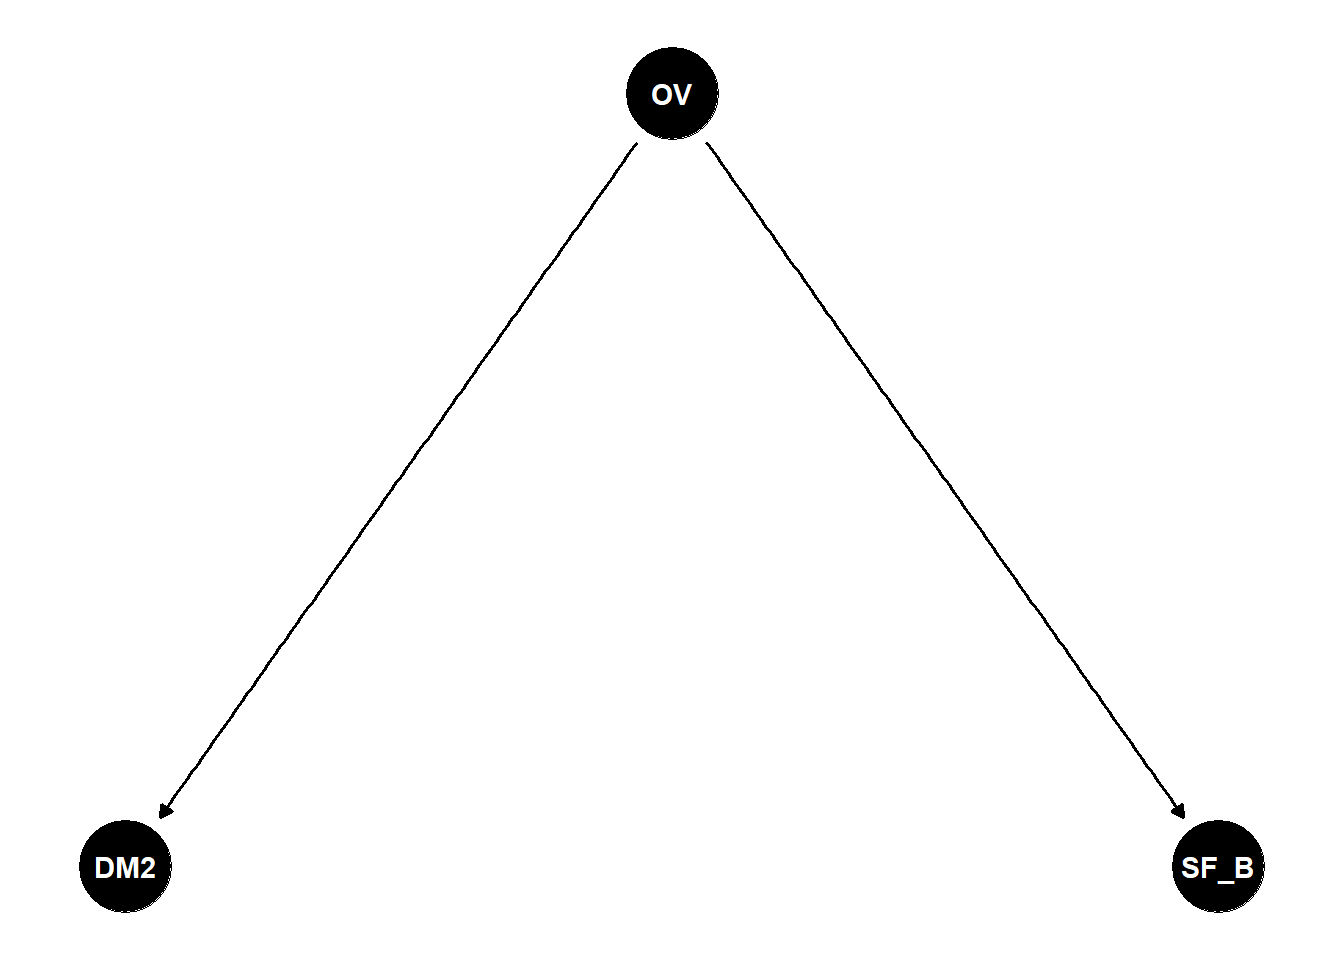
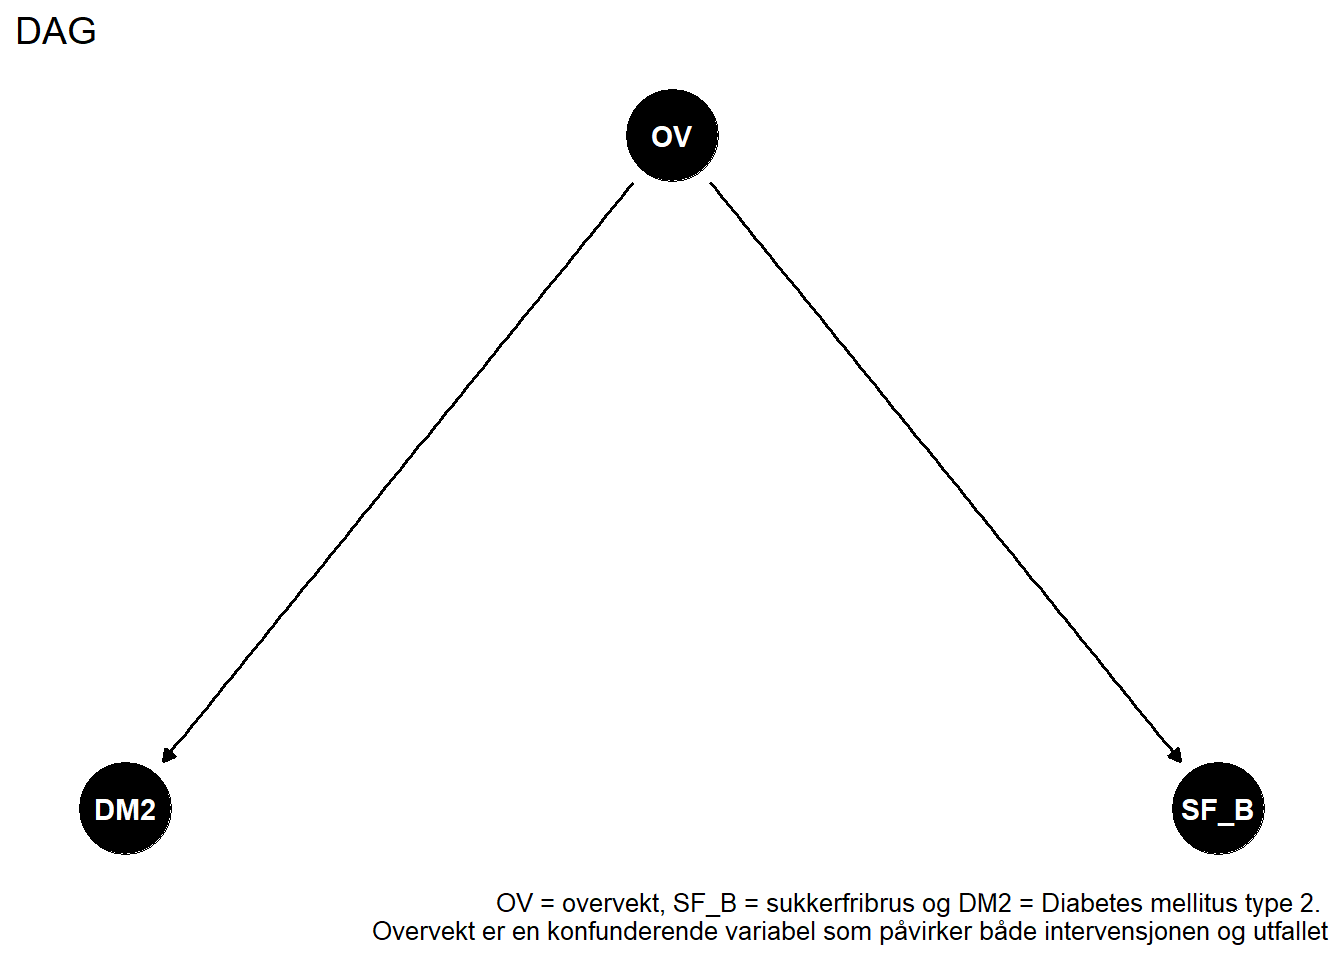
Ferdig med DAG

diff --git a/Arbeidskrav4.html b/Arbeidskrav4.html
@@ -52,10 +52,10 @@ ul.task-list li input[type="checkbox"] {
   <li><a href="#definisjon-av-en-kasual-effekt" id="toc-definisjon-av-en-kasual-effekt" class="nav-link active" data-scroll-target="#definisjon-av-en-kasual-effekt"><span class="header-section-number">1</span> Definisjon av en kasual effekt</a></li>
   <li><a href="#hvordan-kan-vi-bruke-en-eksperimentell-studie-for-å-estimere-en-kausal-effekt" id="toc-hvordan-kan-vi-bruke-en-eksperimentell-studie-for-å-estimere-en-kausal-effekt" class="nav-link" data-scroll-target="#hvordan-kan-vi-bruke-en-eksperimentell-studie-for-å-estimere-en-kausal-effekt"><span class="header-section-number">2</span> Hvordan kan vi bruke en eksperimentell studie for å estimere en kausal effekt?</a></li>
   <li><a href="#hvordan-kan-vi-bruke-en-observasjonsstudier-for-å-estimere-en-kausal-effekt" id="toc-hvordan-kan-vi-bruke-en-observasjonsstudier-for-å-estimere-en-kausal-effekt" class="nav-link" data-scroll-target="#hvordan-kan-vi-bruke-en-observasjonsstudier-for-å-estimere-en-kausal-effekt"><span class="header-section-number">3</span> Hvordan kan vi bruke en observasjonsstudier for å estimere en kausal effekt?</a></li>
-  <li><a href="#beskriv-effekten-av-å-kontrollere-for-en-variabel-som-påvirkes-av-en-intervensjon-når-vi-ønsker-å-estimere-effekten-av-intervensjonen-på-en-annen-variabel." id="toc-beskriv-effekten-av-å-kontrollere-for-en-variabel-som-påvirkes-av-en-intervensjon-når-vi-ønsker-å-estimere-effekten-av-intervensjonen-på-en-annen-variabel." class="nav-link" data-scroll-target="#beskriv-effekten-av-å-kontrollere-for-en-variabel-som-påvirkes-av-en-intervensjon-når-vi-ønsker-å-estimere-effekten-av-intervensjonen-på-en-annen-variabel."><span class="header-section-number">4</span> Beskriv effekten av å kontrollere for en variabel som påvirkes av en intervensjon når vi ønsker å estimere effekten av intervensjonen på en annen variabel.</a></li>
-  <li><a href="#beskriv-effekten-av-å-kontrollere-for-en-variabel-som-påvirkes-av-utfall-og-avhengig-variabel-i-en-regresjonsanalyse-en-collider." id="toc-beskriv-effekten-av-å-kontrollere-for-en-variabel-som-påvirkes-av-utfall-og-avhengig-variabel-i-en-regresjonsanalyse-en-collider." class="nav-link" data-scroll-target="#beskriv-effekten-av-å-kontrollere-for-en-variabel-som-påvirkes-av-utfall-og-avhengig-variabel-i-en-regresjonsanalyse-en-collider."><span class="header-section-number">5</span> Beskriv effekten av å kontrollere for en variabel som påvirkes av utfall og avhengig variabel i en regresjonsanalyse (en collider).</a></li>
-  <li><a href="#section" id="toc-section" class="nav-link" data-scroll-target="#section"><span class="header-section-number">6</span> </a></li>
-  <li><a href="#beskriv-ved-hjelp-av-en-grafisk-modell-directed-acyclic-graph-en-positiv-sammenheng-mellomkonsumpsjon-av-sukkerfri-brus-og-diabetes.-begrense-antall-variabler-til-4-og-begrunn-din-modell." id="toc-beskriv-ved-hjelp-av-en-grafisk-modell-directed-acyclic-graph-en-positiv-sammenheng-mellomkonsumpsjon-av-sukkerfri-brus-og-diabetes.-begrense-antall-variabler-til-4-og-begrunn-din-modell." class="nav-link" data-scroll-target="#beskriv-ved-hjelp-av-en-grafisk-modell-directed-acyclic-graph-en-positiv-sammenheng-mellomkonsumpsjon-av-sukkerfri-brus-og-diabetes.-begrense-antall-variabler-til-4-og-begrunn-din-modell."><span class="header-section-number">7</span> Beskriv ved hjelp av en grafisk modell (Directed Acyclic Graph) en positiv sammenheng mellomkonsumpsjon av sukkerfri brus og diabetes. Begrense antall variabler til &lt; 4 og begrunn din modell.</a></li>
+  <li><a href="#hva-er-en-konfunderende-effekt" id="toc-hva-er-en-konfunderende-effekt" class="nav-link" data-scroll-target="#hva-er-en-konfunderende-effekt"><span class="header-section-number">4</span> Hva er en konfunderende effekt?</a></li>
+  <li><a href="#beskriv-effekten-av-å-kontrollere-for-en-variabel-som-påvirkes-av-en-intervensjon-når-vi-ønsker-å-estimere-effekten-av-intervensjonen-på-en-annen-variabel." id="toc-beskriv-effekten-av-å-kontrollere-for-en-variabel-som-påvirkes-av-en-intervensjon-når-vi-ønsker-å-estimere-effekten-av-intervensjonen-på-en-annen-variabel." class="nav-link" data-scroll-target="#beskriv-effekten-av-å-kontrollere-for-en-variabel-som-påvirkes-av-en-intervensjon-når-vi-ønsker-å-estimere-effekten-av-intervensjonen-på-en-annen-variabel."><span class="header-section-number">5</span> Beskriv effekten av å kontrollere for en variabel som påvirkes av en intervensjon når vi ønsker å estimere effekten av intervensjonen på en annen variabel.</a></li>
+  <li><a href="#beskriv-effekten-av-å-kontrollere-for-en-variabel-som-påvirkes-av-utfall-og-avhengig-variabel-i-en-regresjonsanalyse-en-collider." id="toc-beskriv-effekten-av-å-kontrollere-for-en-variabel-som-påvirkes-av-utfall-og-avhengig-variabel-i-en-regresjonsanalyse-en-collider." class="nav-link" data-scroll-target="#beskriv-effekten-av-å-kontrollere-for-en-variabel-som-påvirkes-av-utfall-og-avhengig-variabel-i-en-regresjonsanalyse-en-collider."><span class="header-section-number">6</span> Beskriv effekten av å kontrollere for en variabel som påvirkes av utfall og avhengig variabel i en regresjonsanalyse (en collider).</a></li>
+  <li><a href="#beskriv-ved-hjelp-av-en-grafisk-modell-directed-acyclic-graph-en-positiv-sammenheng-mellom-konsumpsjon-av-sukkerfri-brus-og-diabetes.-begrense-antall-variabler-til-4-og-begrunn-din-modell." id="toc-beskriv-ved-hjelp-av-en-grafisk-modell-directed-acyclic-graph-en-positiv-sammenheng-mellom-konsumpsjon-av-sukkerfri-brus-og-diabetes.-begrense-antall-variabler-til-4-og-begrunn-din-modell." class="nav-link" data-scroll-target="#beskriv-ved-hjelp-av-en-grafisk-modell-directed-acyclic-graph-en-positiv-sammenheng-mellom-konsumpsjon-av-sukkerfri-brus-og-diabetes.-begrense-antall-variabler-til-4-og-begrunn-din-modell."><span class="header-section-number">7</span> Beskriv ved hjelp av en grafisk modell (Directed Acyclic Graph) en positiv sammenheng mellom konsumpsjon av sukkerfri brus og diabetes. Begrense antall variabler til &lt; 4 og begrunn din modell.</a></li>
   <li><a href="#referanseliste" id="toc-referanseliste" class="nav-link" data-scroll-target="#referanseliste"><span class="header-section-number">8</span> Referanseliste</a></li>
   </ul>
 </nav>
@@ -105,24 +105,26 @@ ul.task-list li input[type="checkbox"] {
 <section id="hvordan-kan-vi-bruke-en-observasjonsstudier-for-å-estimere-en-kausal-effekt" class="level2" data-number="3">
 <h2 data-number="3" class="anchored" data-anchor-id="hvordan-kan-vi-bruke-en-observasjonsstudier-for-å-estimere-en-kausal-effekt"><span class="header-section-number">3</span> Hvordan kan vi bruke en observasjonsstudier for å estimere en kausal effekt?</h2>
 <p>Det vanskelig å påvise en kausal effekt (altså at A <em>forårsaker</em> B) med en observasjonsstudiet fordi vi ikke kontrollerer for hvem som blir eksponert for hva (slik vi gjør i et RCT). Utfordringen er at sammenhenger ofte kan skyldes konfunderende faktorer som påvirker både eksponering og utfall. For å nærme seg kausalitet og estimere den kausale effekten, kan man kontrollere for slike konfundere ved hjelp av randomisering, regresjonsanalyse, matching eller stratifisering.</p>
-<p>Hva er en konfunderende effekt?</p>
+</section>
+<section id="hva-er-en-konfunderende-effekt" class="level2" data-number="4">
+<h2 data-number="4" class="anchored" data-anchor-id="hva-er-en-konfunderende-effekt"><span class="header-section-number">4</span> Hva er en konfunderende effekt?</h2>
 <p>En konfunderende effekt oppstår når sammenhengen mellom en eksponering og et utfall blandes sammen med effekten av en tredje variabel, som kalles en konfunderende variabel. En konfunder påvirker både eksponeringen og utfallet, men ligger ikke i årsakskjeden mellom dem.Beskriv effekten av å kontrollere for en variabel som påvirkes av utfall og avhengig variabel i en regresjonsanalyse (en collider).</p>
 </section>
-<section id="beskriv-effekten-av-å-kontrollere-for-en-variabel-som-påvirkes-av-en-intervensjon-når-vi-ønsker-å-estimere-effekten-av-intervensjonen-på-en-annen-variabel." class="level2" data-number="4">
-<h2 data-number="4" class="anchored" data-anchor-id="beskriv-effekten-av-å-kontrollere-for-en-variabel-som-påvirkes-av-en-intervensjon-når-vi-ønsker-å-estimere-effekten-av-intervensjonen-på-en-annen-variabel."><span class="header-section-number">4</span> Beskriv effekten av å kontrollere for en variabel som påvirkes av en intervensjon når vi ønsker å estimere effekten av intervensjonen på en annen variabel.</h2>
+<section id="beskriv-effekten-av-å-kontrollere-for-en-variabel-som-påvirkes-av-en-intervensjon-når-vi-ønsker-å-estimere-effekten-av-intervensjonen-på-en-annen-variabel." class="level2" data-number="5">
+<h2 data-number="5" class="anchored" data-anchor-id="beskriv-effekten-av-å-kontrollere-for-en-variabel-som-påvirkes-av-en-intervensjon-når-vi-ønsker-å-estimere-effekten-av-intervensjonen-på-en-annen-variabel."><span class="header-section-number">5</span> Beskriv effekten av å kontrollere for en variabel som påvirkes av en intervensjon når vi ønsker å estimere effekten av intervensjonen på en annen variabel.</h2>
 </section>
-<section id="beskriv-effekten-av-å-kontrollere-for-en-variabel-som-påvirkes-av-utfall-og-avhengig-variabel-i-en-regresjonsanalyse-en-collider." class="level2" data-number="5">
-<h2 data-number="5" class="anchored" data-anchor-id="beskriv-effekten-av-å-kontrollere-for-en-variabel-som-påvirkes-av-utfall-og-avhengig-variabel-i-en-regresjonsanalyse-en-collider."><span class="header-section-number">5</span> Beskriv effekten av å kontrollere for en variabel som påvirkes av utfall og avhengig variabel i en regresjonsanalyse (en collider).</h2>
+<section id="beskriv-effekten-av-å-kontrollere-for-en-variabel-som-påvirkes-av-utfall-og-avhengig-variabel-i-en-regresjonsanalyse-en-collider." class="level2" data-number="6">
+<h2 data-number="6" class="anchored" data-anchor-id="beskriv-effekten-av-å-kontrollere-for-en-variabel-som-påvirkes-av-utfall-og-avhengig-variabel-i-en-regresjonsanalyse-en-collider."><span class="header-section-number">6</span> Beskriv effekten av å kontrollere for en variabel som påvirkes av utfall og avhengig variabel i en regresjonsanalyse (en collider).</h2>
+<p>I følge Holmberg &amp; Andersen (2022) er en collider en tredje variabel som påvikes både avhegig og uavhegige variabelen. Dette skaper en kunstig/spuriøs sammenheng mellom de to opprinnelige variablene, selv om sammenhengen mellom dem ikke er reell. Konsekvensen av collider er falsk assosiasjon mellom de “ekte” variablene. Dette ksn påvirke validiteten til observasjonen i et studie.</p>
+<p>Valls-Pedret et al.&nbsp;(2015) gjennomførte en RCT som undersøkte om middelhavsdietter hadde en positiv effekt på kognitiv funksjon. De sammenlignet to middelhavsdietter med kognitiv funksjon, med en kontrolldiett hos 447 deltagere med høy kardiovaskulær risiko. Studien fant forbedring i kogntivit funksjon med begge diettene. Frafallet var 33% i kontrollgruppen, og 16 &amp; 23% i middelhavs diettene. Variabelen som da ble “fullført studien” blir en collider fordi den påvirkes av både: Diett-intervensjon (uavhegig variabel) &amp; Kogntiv funksjon (avhengig variabel). Det vil si at dietten deltagerne fikk og deltagernes kognitive funksjon påvirker sannsynligheten for å bli i studien.</p>
+<p>Konsekvensen av dette kan være feil i resultatene da dette kan være en overreprestasjon av personene med god kognitiv funksjon , siden de med dårlig kognitiv funksjon ofte falt av dietten. Dette kan bidra til å vise en spuriøs sammenheng mellom diett og kognitiv funksjon.</p>
 </section>
-<section id="section" class="level2" data-number="6">
-<h2 data-number="6" class="anchored" data-anchor-id="section"><span class="header-section-number">6</span> </h2>
-</section>
-<section id="beskriv-ved-hjelp-av-en-grafisk-modell-directed-acyclic-graph-en-positiv-sammenheng-mellomkonsumpsjon-av-sukkerfri-brus-og-diabetes.-begrense-antall-variabler-til-4-og-begrunn-din-modell." class="level2" data-number="7">
-<h2 data-number="7" class="anchored" data-anchor-id="beskriv-ved-hjelp-av-en-grafisk-modell-directed-acyclic-graph-en-positiv-sammenheng-mellomkonsumpsjon-av-sukkerfri-brus-og-diabetes.-begrense-antall-variabler-til-4-og-begrunn-din-modell."><span class="header-section-number">7</span> Beskriv ved hjelp av en grafisk modell (Directed Acyclic Graph) en positiv sammenheng mellomkonsumpsjon av sukkerfri brus og diabetes. Begrense antall variabler til &lt; 4 og begrunn din modell.</h2>
+<section id="beskriv-ved-hjelp-av-en-grafisk-modell-directed-acyclic-graph-en-positiv-sammenheng-mellom-konsumpsjon-av-sukkerfri-brus-og-diabetes.-begrense-antall-variabler-til-4-og-begrunn-din-modell." class="level2" data-number="7">
+<h2 data-number="7" class="anchored" data-anchor-id="beskriv-ved-hjelp-av-en-grafisk-modell-directed-acyclic-graph-en-positiv-sammenheng-mellom-konsumpsjon-av-sukkerfri-brus-og-diabetes.-begrense-antall-variabler-til-4-og-begrunn-din-modell."><span class="header-section-number">7</span> Beskriv ved hjelp av en grafisk modell (Directed Acyclic Graph) en positiv sammenheng mellom konsumpsjon av sukkerfri brus og diabetes. Begrense antall variabler til &lt; 4 og begrunn din modell.</h2>
 <p>En directed acyclic graph (DAG) er en type graf som visualiserer kasuale og ikke-kausale sammenhenger mellom ulike variabler. Dette gjøres ved å plotte de ulike variabelene, og deretter bruke piler for å vise årsakssammenhenger (Digitale et al., 2022). Hvis vi ønsker å fremstille den positive <em>sammenhengen</em> mellom konsumpsjon av sukkerfri brus (SF_B) og diabetes mellitus type 2 (DM2), trenger vi følgende:</p>
 <ol type="1">
-<li>En hypotese: En utfallsvariabel (DM2) og en intervensjon (SF_B) som skal påvirke utfallsvariabelen</li>
-<li>De ulike variabelene som kan påvirke både utfallet og intervensjonen (dette inkluderer både ‘confounders’, ‘colliders’ og ’mediators). I dette eksempelet, velger vi én confounder i form av overvekt (OV)</li>
+<li><p>En hypotese: En utfallsvariabel (DM2) og en intervensjon (SF_B) som skal påvirke utfallsvariabelen</p></li>
+<li><p>De ulike variabelene som kan påvirke både utfallet og intervensjonen (dette inkluderer både ‘confounders’, ‘colliders’ og ’mediators). I dette eksempelet, velger vi én confounder i form av overvekt (OV). Denne variabelen velges fordi overvekt er en risikofaktor for DM2, og folk som er overvektige er dermed oftere diabetikere (Folkehelseinstittet, 2021). Vi har også forskning på at overvektige konsumerer mer sukkerfribrus sammenlignet med normalvektige (Fowler et al., 2015).</p></li>
 </ol>
 <div class="cell">
 <div class="cell-output-display">
@@ -133,11 +135,14 @@ ul.task-list li input[type="checkbox"] {
 </div>
 </div>
 </div>
-<p>Hvis vi ikke kontrollerer for OT i modellen vår, vil vi kunne risikere å etablere en spuriøs korrelasjon mellom konsumpsjon av sukkerfribrus og diabetes type 2. Dette er fordi overvektige drikker oftere sukkerfri brus enn normalvektige, og de har også oftere diabetes type 2. Ved å illustere alle variabelene med en DAG og kombinere det med kunnskapen vi har om fysiologi, kan vi unngå feilaktige konklusjoner.</p>
+<p>Hvis vi ikke kontrollerer for OV i modellen vår, vil vi kunne risikere å etablere en spuriøs korrelasjon mellom konsumpsjon av sukkerfribrus og diabetes type 2. Dette er fordi overvektige drikker oftere sukkerfri brus enn normalvektige, og de har også oftere diabetes type 2. Ved å illustere alle variabelene med en DAG og kombinere det med kunnskapen vi har om fysiologi, kan vi unngå feilaktige konklusjoner.</p>
 </section>
 <section id="referanseliste" class="level2" data-number="8">
 <h2 data-number="8" class="anchored" data-anchor-id="referanseliste"><span class="header-section-number">8</span> Referanseliste</h2>
 <p>Digitale, J. C., Martin, J. N., &amp; Glymour, M. M. (2022). Tutorial on directed acyclic graphs. Journal of clinical epidemiology, 142, 264–267. https://doi.org/10.1016/j.jclinepi.2021.08.001</p>
+<p>Holmberg, M. J., &amp; Andersen, L. W. (2022). Collider Bias.&nbsp;<em>JAMA</em>,&nbsp;<em>327</em>(13), 1282–1283. https://doi.org/10.1001/jama.2022.1820</p>
+<p>Folkehelseinstituttet. (2021, 31. mai). Diabetes i Norge. https://www.fhi.no/nettpub/hin/ikke-smittsomme/diabetes/</p>
+<p>Fowler, S. P., Williams, K., &amp; Hazuda, H. P. (2015). Diet soda intake is associated with long-term increases in waist circumference in a biethnic cohort of older adults: the San Antonio Longitudinal Study of Aging. Journal of the American Geriatrics Society, 63(4), 708–715. https://doi.org/10.1111/jgs.13376</p>
 </section>
 
 </main>
